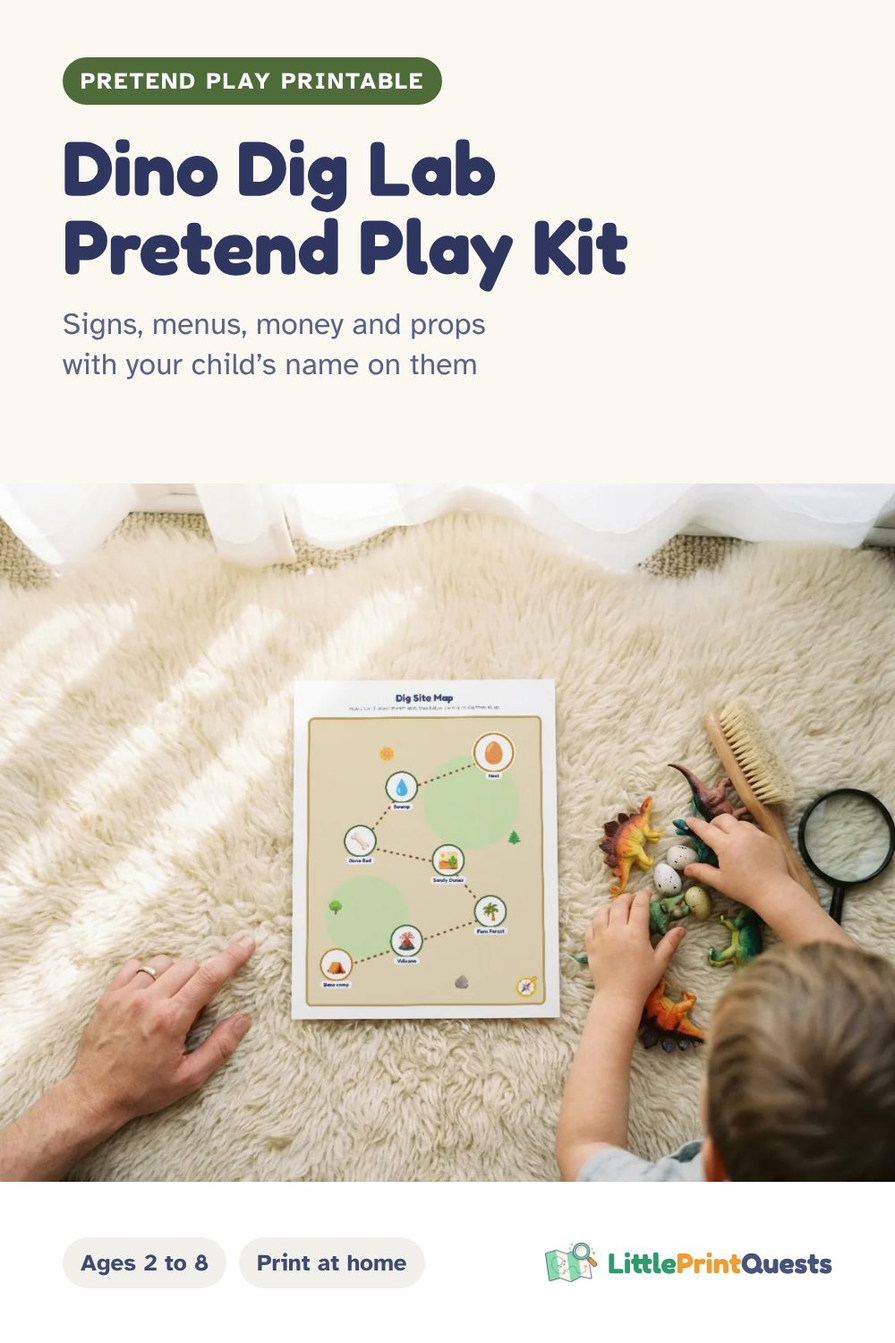
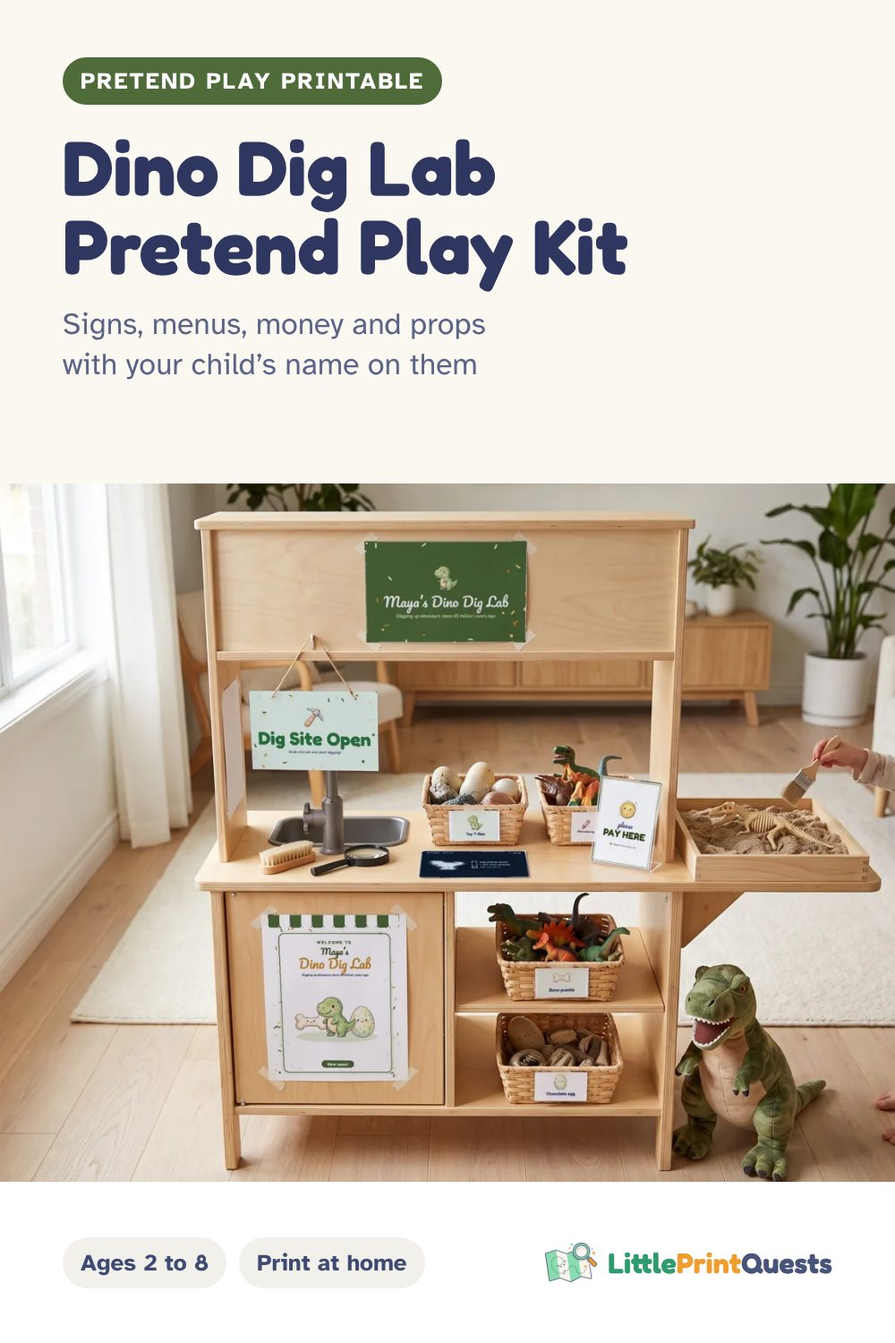
Mix in the play-stand and flat-lay photos across the site
Ten new photos showing the whole kit at once: a play stand set up with the shop
sign, Open sign, price list, poster and labels, and a flat lay of everything
that prints. Mixed with the best of the first set:

- Homepage: the At home strip mixes stands, a flat lay and two play shots, and
  the play kits section gets the pizza stand and flat lay above the kit list
- Kit idea pages: the stand leads, a play shot sits with the games and the
  flat lay sits with the printable
- Kit pins now lead with the play stand
- Drops the five first-round photos nothing uses any more

Claude-Session: https://claude.ai/code/session_01VuGCeLm3Bmq6rjNdytuGkh

diff --git a/docs/index.html b/docs/index.html
@@ -124,7 +124,10 @@ main { position: relative; }
 .life span { display: flex; justify-content: space-between; gap: 10px; padding: 12px 16px; font: 600 17px/1.2 var(--display); }
 .life small { font: 400 14px/1.2 var(--body); color: var(--ink-soft); align-self: center; }
 .life a:hover small, .life a:focus-visible small { color: var(--orange-edge); }
-@media (max-width: 760px) { .life { grid-auto-flow: column; grid-template-columns: none; grid-auto-columns: 78%; overflow-x: auto; scroll-snap-type: x mandatory; padding-bottom: 6px; } .life a { scroll-snap-align: start; } }
+.life-2 { grid-template-columns: repeat(2, 1fr); margin-bottom: 26px; }
+.life figure { margin: 0; background: var(--sheet); border: 1px solid var(--line); border-radius: var(--r); overflow: hidden; }
+.life figcaption { padding: 12px 16px; font: 600 17px/1.2 var(--display); }
+@media (max-width: 760px) { .life { grid-auto-flow: column; grid-template-columns: none; grid-auto-columns: 78%; overflow-x: auto; scroll-snap-type: x mandatory; padding-bottom: 6px; } .life a, .life figure { scroll-snap-align: start; } }
 .step { background: var(--sheet); border: 1px solid var(--line); border-radius: var(--r); padding: 24px; display: grid; gap: 10px; align-content: start; }
 .step .n { font: 700 15px/1 var(--mono); color: var(--ink-soft); }
 .step p { color: var(--ink-soft); }
@@ -464,12 +467,12 @@ footer .brand b { display: block; font: 600 19px/1.2 var(--display); }
       <h2>Print it, tape it up, start playing</h2>
       <p class="kits-lede">Every kit prints on plain Letter paper with your child’s name on the signs, menus and forms. Tape the poster to a door, set the menu on the table and the living room is open for business.</p>
       <div class="life">
+        <a href="?theme=vet#order"><img src="img/life/vet-stand-sm.webp" srcset="img/life/vet-stand-sm.webp 640w, img/life/vet-stand.webp 1200w" sizes="(max-width: 760px) 78vw, 400px" width="640" height="478" alt="The printed Vet Clinic kit on a play stand: clinic sign, Open sign, treatment prices, welcome poster and basket labels" loading="lazy"><span>Vet Clinic<small>Make this kit</small></span></a>
+        <a href="?theme=dino#order"><img src="img/life/dino-flat-sm.webp" srcset="img/life/dino-flat-sm.webp 640w, img/life/dino-flat.webp 1200w" sizes="(max-width: 760px) 78vw, 400px" width="640" height="478" alt="Everything in the Dino Dig Lab kit printed out: poster, gift shop menu, shop sign, fossil scans, play money and badges" loading="lazy"><span>Dino Dig Lab<small>Make this kit</small></span></a>
+        <a href="?theme=halloween#order"><img src="img/life/halloween-stand-sm.webp" srcset="img/life/halloween-stand-sm.webp 640w, img/life/halloween-stand.webp 1200w" sizes="(max-width: 760px) 78vw, 400px" width="640" height="478" alt="The printed Potion Shop kit on a play stand with a cauldron, potion jars and basket labels" loading="lazy"><span>Potion Shop<small>Make this kit</small></span></a>
         <a href="?kit=pizza#order"><img src="img/life/pizza-b-sm.webp" srcset="img/life/pizza-b-sm.webp 640w, img/life/pizza-b.webp 1200w" sizes="(max-width: 760px) 78vw, 400px" width="640" height="478" alt="The Pizza Shop menu on a kitchen table next to a felt pizza" loading="lazy"><span>Pizza Shop<small>Make this kit</small></span></a>
+        <a href="?theme=unicorn#order"><img src="img/life/unicorn-stand-sm.webp" srcset="img/life/unicorn-stand-sm.webp 640w, img/life/unicorn-stand.webp 1200w" sizes="(max-width: 760px) 78vw, 400px" width="640" height="478" alt="The printed Unicorn Stable kit on a play stand with a plush unicorn, treat baskets and signs" loading="lazy"><span>Unicorn Stable<small>Make this kit</small></span></a>
         <a href="?theme=vet#order"><img src="img/life/vet-b-sm.webp" srcset="img/life/vet-b-sm.webp 640w, img/life/vet-b.webp 1200w" sizes="(max-width: 760px) 78vw, 400px" width="640" height="478" alt="A Pet Check-Up form beside a teddy bear getting a check-up" loading="lazy"><span>Vet Clinic<small>Make this kit</small></span></a>
-        <a href="?theme=dino#order"><img src="img/life/dino-a-sm.webp" srcset="img/life/dino-a-sm.webp 640w, img/life/dino-a.webp 1200w" sizes="(max-width: 760px) 78vw, 400px" width="640" height="478" alt="The Dig Site Map on a rug with toy dinosaurs and a magnifying glass" loading="lazy"><span>Dino Dig Lab<small>Make this kit</small></span></a>
-        <a href="?theme=unicorn#order"><img src="img/life/unicorn-a-sm.webp" srcset="img/life/unicorn-a-sm.webp 640w, img/life/unicorn-a.webp 1200w" sizes="(max-width: 760px) 78vw, 400px" width="640" height="478" alt="The Treat Barn menu on a play table while a child brushes a plush unicorn" loading="lazy"><span>Unicorn Stable<small>Make this kit</small></span></a>
-        <a href="?theme=halloween#order"><img src="img/life/halloween-a-sm.webp" srcset="img/life/halloween-a-sm.webp 640w, img/life/halloween-a.webp 1200w" sizes="(max-width: 760px) 78vw, 400px" width="640" height="478" alt="The Potion Shop welcome poster taped above a table of pumpkins and potion jars" loading="lazy"><span>Potion Shop<small>Make this kit</small></span></a>
-        <a href="?theme=vet#order"><img src="img/life/vet-a-sm.webp" srcset="img/life/vet-a-sm.webp 640w, img/life/vet-a.webp 1200w" sizes="(max-width: 760px) 78vw, 400px" width="640" height="478" alt="The Pet Clinic welcome poster taped to a bedroom door above plush pets" loading="lazy"><span>Vet Clinic<small>Make this kit</small></span></a>
       </div>
     </div>
   </section>
@@ -593,6 +596,10 @@ footer .brand b { display: block; font: 600 19px/1.2 var(--display); }
       <div class="pin"><b></b><span class="eyebrow">Shop play kits</span></div>
       <h2>Eleven pretend places to set up at home</h2>
       <p class="kits-lede">Print, cut and tape them up around a play kitchen, a shelf or a corner of the room. Every kit is made with your child’s name: a long shop sign, station and counter signs, shelf labels, a cash register, play money, order forms and a menu to run it all. $7.99 each, with play ideas in Host Mode. Every kit comes in two versions: big kids (5 to 8), and little kids (2 to 4) with thicker cut lines, bigger pictures and order forms they fill in by circling pictures.</p>
+      <div class="life life-2">
+        <figure><img src="img/life/pizza-stand-sm.webp" srcset="img/life/pizza-stand-sm.webp 640w, img/life/pizza-stand.webp 1200w" sizes="(max-width: 760px) 78vw, 600px" width="640" height="478" alt="The printed Pizza Shop kit on a play stand: long shop sign, Open sign, menu, oven poster, Pay Here sign and topping labels" loading="lazy"><figcaption>Set up on a play stand</figcaption></figure>
+        <figure><img src="img/life/pizza-flat-sm.webp" srcset="img/life/pizza-flat-sm.webp 640w, img/life/pizza-flat.webp 1200w" sizes="(max-width: 760px) 78vw, 600px" width="640" height="478" alt="Everything in the Pizza Shop kit printed out: welcome poster, menu, shop sign, order cards, play money and staff badges" loading="lazy"><figcaption>Everything that prints</figcaption></figure>
+      </div>
       <div class="themes" id="shopList"></div>
       <form class="shop-buy" id="shopForm" novalidate>
         <div>

diff --git a/docs/ideas/potion-shop-pretend-play/index.html b/docs/ideas/potion-shop-pretend-play/index.html
@@ -62,13 +62,13 @@ footer { margin-top:56px; padding:28px 0 40px; border-top:1px solid var(--line);
 <h1>Potion Shop pretend play for kids</h1>
 <p class="lede">Everything your child needs to run a pretend potion shop. Print on regular Letter paper, cut along the dashed lines, and gather some stuffed animals to be customers. Here’s how to set it up, games to play and a printable kit with your child’s name on every page.</p>
 <a class="btn" href="../../?theme=halloween#order">Make a personalized Potion Shop kit</a>
-<img class="photo" src="../../img/life/halloween-b.webp" srcset="../../img/life/halloween-b-sm.webp 640w, ../../img/life/halloween-b.webp 1200w" sizes="(max-width: 760px) 100vw, 720px" width="1200" height="896" alt="The printed Potion Shop kit set up for play at home">
+<img class="photo" src="../../img/life/halloween-stand.webp" srcset="../../img/life/halloween-stand-sm.webp 640w, ../../img/life/halloween-stand.webp 1200w" sizes="(max-width: 760px) 100vw, 720px" width="1200" height="896" alt="The printed Potion Shop kit set up on a play stand: shop sign, open sign, price list, poster and labels">
 <h2>How to set it up</h2>
 <ol class="tips"><li>Tape the Potion Shop sign and Open sign by the door.</li><li>Use a big pot or bowl as the cauldron, with a wooden spoon.</li><li>Put the potion cauldron together: glue the back behind the doors.</li><li>Fill a shelf with “ingredients”: the cards, cups, cotton balls and colored water.</li><li>Pin on the badges and open the shop!</li></ol>
-<img class="photo" src="../../img/life/halloween-a.webp" srcset="../../img/life/halloween-a-sm.webp 640w, ../../img/life/halloween-a.webp 1200w" sizes="(max-width: 760px) 100vw, 720px" width="1200" height="896" alt="The printed Potion Shop kit set up for play at home" loading="lazy">
 
 <h2>Games to play</h2>
 <ul class="clues"><li class="clue"><h3>🧪 Mix a potion</h3><p>Pick three ingredient cards, stir them in, and fill out a recipe card.</p></li><li class="clue"><h3>🔮 Potion check-up</h3><p>Give a customer the potion, then tick what happens. Giggles? Sparkles?</p></li><li class="clue"><h3>🐸 Oops, hiccups!</h3><p>The frog has the hiccups! Mix a giggle potion fast to fix them.</p></li><li class="clue"><h3>🎃 Pay at the counter</h3><p>Customers pay with pumpkin coins. Great for early counting.</p></li></ul>
+<img class="photo" src="../../img/life/halloween-b.webp" srcset="../../img/life/halloween-b-sm.webp 640w, ../../img/life/halloween-b.webp 1200w" sizes="(max-width: 760px) 100vw, 720px" width="1200" height="896" alt="Playing potion shop at home with the printed kit" loading="lazy">
 
 <h2>Who’s who</h2>
 <p>Hand out the jobs so everyone gets a turn, grown-ups and stuffed animals included:</p>
@@ -79,6 +79,7 @@ footer { margin-top:56px; padding:28px 0 40px; border-top:1px solid var(--line);
 
 <h2>Want it printed and personalized?</h2>
 <p>The printable Potion Shop kit has your child’s name on the signs, badges and certificate, plus play money, order forms, props and a grown-up guide full of ideas. Pick the little kids version (ages 2 to 4) or the big kids version (5 to 8), and add the activity pack of wipe-and-play pages if you like. It arrives by email in minutes.</p>
+<img class="photo" src="../../img/life/halloween-flat.webp" srcset="../../img/life/halloween-flat-sm.webp 640w, ../../img/life/halloween-flat.webp 1200w" sizes="(max-width: 760px) 100vw, 720px" width="1200" height="896" alt="Everything in the Potion Shop kit printed out: poster, price list, shop sign, cards, play money and badges" loading="lazy">
 <div class="pages"><img src="../../img/pages/halloween-kit.webp" alt="Potion Shop printable page" width="400" height="518" loading="lazy"><img src="../../img/pages/halloween-little-kit.webp" alt="Potion Shop printable page" width="400" height="518" loading="lazy"><img src="../../img/pages/halloween-activity.webp" alt="Potion Shop printable page" width="400" height="518" loading="lazy"><img src="../../img/pages/halloween-little-activity.webp" alt="Potion Shop printable page" width="400" height="518" loading="lazy"></div>
 <p><a class="btn" href="../../?theme=halloween#order">Build my Potion Shop kit</a></p>
 

diff --git a/docs/ideas/unicorn-stable-pretend-play/index.html b/docs/ideas/unicorn-stable-pretend-play/index.html
@@ -62,13 +62,13 @@ footer { margin-top:56px; padding:28px 0 40px; border-top:1px solid var(--line);
 <h1>Unicorn Stable pretend play for kids</h1>
 <p class="lede">Everything your child needs to run a pretend unicorn stable. Print on regular Letter paper, cut along the dashed lines, and gather some toy unicorns and ponies. Here’s how to set it up, games to play and a printable kit with your child’s name on every page.</p>
 <a class="btn" href="../../?theme=unicorn#order">Make a personalized Unicorn Stable kit</a>
-<img class="photo" src="../../img/life/unicorn-a.webp" srcset="../../img/life/unicorn-a-sm.webp 640w, ../../img/life/unicorn-a.webp 1200w" sizes="(max-width: 760px) 100vw, 720px" width="1200" height="896" alt="The printed Unicorn Stable kit set up for play at home">
+<img class="photo" src="../../img/life/unicorn-stand.webp" srcset="../../img/life/unicorn-stand-sm.webp 640w, ../../img/life/unicorn-stand.webp 1200w" sizes="(max-width: 760px) 100vw, 720px" width="1200" height="896" alt="The printed Unicorn Stable kit set up on a play stand: shop sign, open sign, price list, poster and labels">
 <h2>How to set it up</h2>
 <ol class="tips"><li>Tape the Unicorn Stable sign and Stable Open sign by the door.</li><li>Make a cozy stall for each unicorn from a box or pillow.</li><li>Put the Rainbow Maker together with a paper fastener.</li><li>Set out the Treat Barn with play food or real snacks.</li><li>Pin on the badges and open the stable!</li></ol>
-<img class="photo" src="../../img/life/unicorn-b.webp" srcset="../../img/life/unicorn-b-sm.webp 640w, ../../img/life/unicorn-b.webp 1200w" sizes="(max-width: 760px) 100vw, 720px" width="1200" height="896" alt="The printed Unicorn Stable kit set up for play at home" loading="lazy">
 
 <h2>Games to play</h2>
 <ul class="clues"><li class="clue"><h3>✨ Sparkle check-up</h3><p>Scan each unicorn with the sparkle finder, then fill in a check-up form.</p></li><li class="clue"><h3>🌈 Rainbow ride</h3><p>Ride the ponies along the trail map and stamp a passport at each stop.</p></li><li class="clue"><h3>🏆 Pony show</h3><p>Unicorns prance and twirl, then the judge hands out rainbow rosettes.</p></li><li class="clue"><h3>🥕 Treat barn</h3><p>Riders pay with rainbow gems. Great for early counting.</p></li></ul>
+<img class="photo" src="../../img/life/unicorn-a.webp" srcset="../../img/life/unicorn-a-sm.webp 640w, ../../img/life/unicorn-a.webp 1200w" sizes="(max-width: 760px) 100vw, 720px" width="1200" height="896" alt="Playing unicorn stable at home with the printed kit" loading="lazy">
 
 <h2>Who’s who</h2>
 <p>Hand out the jobs so everyone gets a turn, grown-ups and stuffed animals included:</p>
@@ -79,6 +79,7 @@ footer { margin-top:56px; padding:28px 0 40px; border-top:1px solid var(--line);
 
 <h2>Want it printed and personalized?</h2>
 <p>The printable Unicorn Stable kit has your child’s name on the signs, badges and certificate, plus play money, order forms, props and a grown-up guide full of ideas. Pick the little kids version (ages 2 to 4) or the big kids version (5 to 8), and add the activity pack of wipe-and-play pages if you like. It arrives by email in minutes.</p>
+<img class="photo" src="../../img/life/unicorn-flat.webp" srcset="../../img/life/unicorn-flat-sm.webp 640w, ../../img/life/unicorn-flat.webp 1200w" sizes="(max-width: 760px) 100vw, 720px" width="1200" height="896" alt="Everything in the Unicorn Stable kit printed out: poster, price list, shop sign, cards, play money and badges" loading="lazy">
 <div class="pages"><img src="../../img/pages/unicorn-kit.webp" alt="Unicorn Stable printable page" width="400" height="518" loading="lazy"><img src="../../img/pages/unicorn-little-kit.webp" alt="Unicorn Stable printable page" width="400" height="518" loading="lazy"><img src="../../img/pages/unicorn-activity.webp" alt="Unicorn Stable printable page" width="400" height="518" loading="lazy"><img src="../../img/pages/unicorn-little-activity.webp" alt="Unicorn Stable printable page" width="400" height="518" loading="lazy"></div>
 <p><a class="btn" href="../../?theme=unicorn#order">Build my Unicorn Stable kit</a></p>
 

diff --git a/docs/ideas/dino-dig-lab-pretend-play/index.html b/docs/ideas/dino-dig-lab-pretend-play/index.html
@@ -62,13 +62,13 @@ footer { margin-top:56px; padding:28px 0 40px; border-top:1px solid var(--line);
 <h1>Dino Dig Lab pretend play for kids</h1>
 <p class="lede">Everything your child needs to run a pretend dinosaur dig. Print on regular Letter paper, cut along the dashed lines, and gather some toy dinosaurs to discover. Here’s how to set it up, games to play and a printable kit with your child’s name on every page.</p>
 <a class="btn" href="../../?theme=dino#order">Make a personalized Dino Dig Lab kit</a>
-<img class="photo" src="../../img/life/dino-a.webp" srcset="../../img/life/dino-a-sm.webp 640w, ../../img/life/dino-a.webp 1200w" sizes="(max-width: 760px) 100vw, 720px" width="1200" height="896" alt="The printed Dino Dig Lab kit set up for play at home">
+<img class="photo" src="../../img/life/dino-stand.webp" srcset="../../img/life/dino-stand-sm.webp 640w, ../../img/life/dino-stand.webp 1200w" sizes="(max-width: 760px) 100vw, 720px" width="1200" height="896" alt="The printed Dino Dig Lab kit set up on a play stand: shop sign, open sign, price list, poster and labels">
 <h2>How to set it up</h2>
 <ol class="tips"><li>Tape the Dig Lab sign and Dig Site Open sign by the door.</li><li>Hide toy dinosaurs in a sandbox, a bin of rice, or under pillows.</li><li>Set up the Fossil Lab on a table with brushes and a magnifier.</li><li>Put the Hatchery sign on a basket of “eggs” (balled-up socks work great).</li><li>Pin on the badges and start digging!</li></ol>
-<img class="photo" src="../../img/life/dino-b.webp" srcset="../../img/life/dino-b-sm.webp 640w, ../../img/life/dino-b.webp 1200w" sizes="(max-width: 760px) 100vw, 720px" width="1200" height="896" alt="The printed Dino Dig Lab kit set up for play at home" loading="lazy">
 
 <h2>Games to play</h2>
 <ul class="clues"><li class="clue"><h3>⛏ The big dig</h3><p>Hide the fossil finds around the room, follow the dig site map, then match each dino to its fossil scan.</p></li><li class="clue"><h3>🏛 Museum day</h3><p>Line up your finds, sell tickets, and give a guided tour.</p></li><li class="clue"><h3>🌋 Volcano alert!</h3><p>The volcano rumbles! Rescue the eggs and carry them to the Hatchery.</p></li><li class="clue"><h3>🦴 Gift shop</h3><p>Visitors pay with fossil coins. Great for early counting.</p></li></ul>
+<img class="photo" src="../../img/life/dino-a.webp" srcset="../../img/life/dino-a-sm.webp 640w, ../../img/life/dino-a.webp 1200w" sizes="(max-width: 760px) 100vw, 720px" width="1200" height="896" alt="Playing dino dig lab at home with the printed kit" loading="lazy">
 
 <h2>Who’s who</h2>
 <p>Hand out the jobs so everyone gets a turn, grown-ups and stuffed animals included:</p>
@@ -79,6 +79,7 @@ footer { margin-top:56px; padding:28px 0 40px; border-top:1px solid var(--line);
 
 <h2>Want it printed and personalized?</h2>
 <p>The printable Dino Dig Lab kit has your child’s name on the signs, badges and certificate, plus play money, order forms, props and a grown-up guide full of ideas. Pick the little kids version (ages 2 to 4) or the big kids version (5 to 8), and add the activity pack of wipe-and-play pages if you like. It arrives by email in minutes.</p>
+<img class="photo" src="../../img/life/dino-flat.webp" srcset="../../img/life/dino-flat-sm.webp 640w, ../../img/life/dino-flat.webp 1200w" sizes="(max-width: 760px) 100vw, 720px" width="1200" height="896" alt="Everything in the Dino Dig Lab kit printed out: poster, price list, shop sign, cards, play money and badges" loading="lazy">
 <div class="pages"><img src="../../img/pages/dino-kit.webp" alt="Dino Dig Lab printable page" width="400" height="518" loading="lazy"><img src="../../img/pages/dino-little-kit.webp" alt="Dino Dig Lab printable page" width="400" height="518" loading="lazy"><img src="../../img/pages/dino-activity.webp" alt="Dino Dig Lab printable page" width="400" height="518" loading="lazy"><img src="../../img/pages/dino-little-activity.webp" alt="Dino Dig Lab printable page" width="400" height="518" loading="lazy"></div>
 <p><a class="btn" href="../../?theme=dino#order">Build my Dino Dig Lab kit</a></p>
 

diff --git a/docs/ideas/pizza-shop-pretend-play/index.html b/docs/ideas/pizza-shop-pretend-play/index.html
@@ -62,13 +62,13 @@ footer { margin-top:56px; padding:28px 0 40px; border-top:1px solid var(--line);
 <h1>Pizza Shop pretend play for kids</h1>
 <p class="lede">Everything your child needs to run a pretend pizzeria. Print on regular Letter paper, cut along the dashed lines, and line up some stuffed animals to be hungry customers. Here’s how to set it up, games to play and a printable kit with your child’s name on every page.</p>
 <a class="btn" href="../../?kit=pizza#order">Make a personalized Pizza Shop kit</a>
-<img class="photo" src="../../img/life/pizza-b.webp" srcset="../../img/life/pizza-b-sm.webp 640w, ../../img/life/pizza-b.webp 1200w" sizes="(max-width: 760px) 100vw, 720px" width="1200" height="896" alt="The printed Pizza Shop kit set up for play at home">
+<img class="photo" src="../../img/life/pizza-stand.webp" srcset="../../img/life/pizza-stand-sm.webp 640w, ../../img/life/pizza-stand.webp 1200w" sizes="(max-width: 760px) 100vw, 720px" width="1200" height="896" alt="The printed Pizza Shop kit set up on a play stand: shop sign, open sign, price list, poster and labels">
 <h2>How to set it up</h2>
 <ol class="tips"><li>Tape the pizzeria sign and Open sign by the “front door”.</li><li>Set up the register on the counter.</li><li>Lay out the toppings in small bowls or cups with their labels.</li><li>Use a baking tray or a shoebox as the pizza oven.</li><li>Pin on the badges and take the first order!</li></ol>
-<img class="photo" src="../../img/life/pizza-a.webp" srcset="../../img/life/pizza-a-sm.webp 640w, ../../img/life/pizza-a.webp 1200w" sizes="(max-width: 760px) 100vw, 720px" width="1200" height="896" alt="The printed Pizza Shop kit set up for play at home" loading="lazy">
 
 <h2>Games to play</h2>
 <ul class="clues"><li class="clue"><h3>🍕 Make it match</h3><p>A customer picks an order card. The chef builds that pizza with the cut-out toppings.</p></li><li class="clue"><h3>🛵 Delivery!</h3><p>Fill in a delivery ticket and drive the pizza to a customer in another room.</p></li><li class="clue"><h3>🪙 Pay at the register</h3><p>Add up the menu prices and pay with pizza coins. Great for early counting.</p></li><li class="clue"><h3>⭐ Pizza Club</h3><p>Stamp a club card after every pizza. A full card earns a free slice!</p></li></ul>
+<img class="photo" src="../../img/life/pizza-b.webp" srcset="../../img/life/pizza-b-sm.webp 640w, ../../img/life/pizza-b.webp 1200w" sizes="(max-width: 760px) 100vw, 720px" width="1200" height="896" alt="Playing pizza shop at home with the printed kit" loading="lazy">
 
 <h2>Who’s who</h2>
 <p>Hand out the jobs so everyone gets a turn, grown-ups and stuffed animals included:</p>
@@ -79,6 +79,7 @@ footer { margin-top:56px; padding:28px 0 40px; border-top:1px solid var(--line);
 
 <h2>Want it printed and personalized?</h2>
 <p>The printable Pizza Shop kit has your child’s name on the signs, badges and certificate, plus play money, order forms, props and a grown-up guide full of ideas. Pick the little kids version (ages 2 to 4) or the big kids version (5 to 8), and add the activity pack of wipe-and-play pages if you like. It arrives by email in minutes.</p>
+<img class="photo" src="../../img/life/pizza-flat.webp" srcset="../../img/life/pizza-flat-sm.webp 640w, ../../img/life/pizza-flat.webp 1200w" sizes="(max-width: 760px) 100vw, 720px" width="1200" height="896" alt="Everything in the Pizza Shop kit printed out: poster, price list, shop sign, cards, play money and badges" loading="lazy">
 <div class="pages"><img src="../../img/pages/pizza-kit.webp" alt="Pizza Shop printable page" width="400" height="518" loading="lazy"><img src="../../img/pages/pizza-little-kit.webp" alt="Pizza Shop printable page" width="400" height="518" loading="lazy"><img src="../../img/pages/pizza-activity.webp" alt="Pizza Shop printable page" width="400" height="518" loading="lazy"><img src="../../img/pages/pizza-little-activity.webp" alt="Pizza Shop printable page" width="400" height="518" loading="lazy"></div>
 <p><a class="btn" href="../../?kit=pizza#order">Build my Pizza Shop kit</a></p>
 

diff --git a/docs/ideas/vet-clinic-pretend-play/index.html b/docs/ideas/vet-clinic-pretend-play/index.html
@@ -62,13 +62,13 @@ footer { margin-top:56px; padding:28px 0 40px; border-top:1px solid var(--line);
 <h1>Vet Clinic pretend play for kids</h1>
 <p class="lede">Everything your child needs to run a pretend vet clinic. Print on regular Letter paper, cut along the dashed lines, and gather some stuffed animals to be patients. Here’s how to set it up, games to play and a printable kit with your child’s name on every page.</p>
 <a class="btn" href="../../?theme=vet#order">Make a personalized Vet Clinic kit</a>
-<img class="photo" src="../../img/life/vet-b.webp" srcset="../../img/life/vet-b-sm.webp 640w, ../../img/life/vet-b.webp 1200w" sizes="(max-width: 760px) 100vw, 720px" width="1200" height="896" alt="The printed Vet Clinic kit set up for play at home">
+<img class="photo" src="../../img/life/vet-stand.webp" srcset="../../img/life/vet-stand-sm.webp 640w, ../../img/life/vet-stand.webp 1200w" sizes="(max-width: 760px) 100vw, 720px" width="1200" height="896" alt="The printed Vet Clinic kit set up on a play stand: shop sign, open sign, price list, poster and labels">
 <h2>How to set it up</h2>
 <ol class="tips"><li>Tape the clinic sign and Open sign by the “front door”.</li><li>Line up chairs for the Waiting Room.</li><li>Make an Exam Room on a table or bed with a towel.</li><li>Fill a box with “medicine”: tissues for bandages, empty bottles, cotton balls.</li><li>Pin on the badges and open the clinic!</li></ol>
-<img class="photo" src="../../img/life/vet-a.webp" srcset="../../img/life/vet-a-sm.webp 640w, ../../img/life/vet-a.webp 1200w" sizes="(max-width: 760px) 100vw, 720px" width="1200" height="896" alt="The printed Vet Clinic kit set up for play at home" loading="lazy">
 
 <h2>Games to play</h2>
 <ul class="clues"><li class="clue"><h3>🩺 Full check-up</h3><p>Go down the check-up form: eyes, ears, teeth, paws. Tick each box.</p></li><li class="clue"><h3>🦴 X-ray time</h3><p>Hold an X-ray up to the window and find out what’s wrong. Then treat it with the clinic supplies.</p></li><li class="clue"><h3>🚑 Emergency!</h3><p>A patient has a sore paw. Bandage it fast and write a prescription.</p></li><li class="clue"><h3>🪙 Pay at the desk</h3><p>Owners pay with paw coins. Great for early counting.</p></li></ul>
+<img class="photo" src="../../img/life/vet-b.webp" srcset="../../img/life/vet-b-sm.webp 640w, ../../img/life/vet-b.webp 1200w" sizes="(max-width: 760px) 100vw, 720px" width="1200" height="896" alt="Playing vet clinic at home with the printed kit" loading="lazy">
 
 <h2>Who’s who</h2>
 <p>Hand out the jobs so everyone gets a turn, grown-ups and stuffed animals included:</p>
@@ -79,6 +79,7 @@ footer { margin-top:56px; padding:28px 0 40px; border-top:1px solid var(--line);
 
 <h2>Want it printed and personalized?</h2>
 <p>The printable Vet Clinic kit has your child’s name on the signs, badges and certificate, plus play money, order forms, props and a grown-up guide full of ideas. Pick the little kids version (ages 2 to 4) or the big kids version (5 to 8), and add the activity pack of wipe-and-play pages if you like. It arrives by email in minutes.</p>
+<img class="photo" src="../../img/life/vet-flat.webp" srcset="../../img/life/vet-flat-sm.webp 640w, ../../img/life/vet-flat.webp 1200w" sizes="(max-width: 760px) 100vw, 720px" width="1200" height="896" alt="Everything in the Vet Clinic kit printed out: poster, price list, shop sign, cards, play money and badges" loading="lazy">
 <div class="pages"><img src="../../img/pages/vet-kit.webp" alt="Vet Clinic printable page" width="400" height="518" loading="lazy"><img src="../../img/pages/vet-little-kit.webp" alt="Vet Clinic printable page" width="400" height="518" loading="lazy"><img src="../../img/pages/vet-activity.webp" alt="Vet Clinic printable page" width="400" height="518" loading="lazy"><img src="../../img/pages/vet-little-activity.webp" alt="Vet Clinic printable page" width="400" height="518" loading="lazy"></div>
 <p><a class="btn" href="../../?theme=vet#order">Build my Vet Clinic kit</a></p>
 

diff --git a/scripts/idea-pages.js b/scripts/idea-pages.js
@@ -21,12 +21,10 @@ const spaceSlug = (s) => slug(s.title);
 const kitSlug = (k) => `${slug(k.name)}-pretend-play`;
 const builder = (q) => `../../?${new URLSearchParams(q)}#order`;
 const lines = (couplet) => couplet.map(esc).join('<br>');
-// Kits with photos of the printed kit in a room (docs/img/life/<kit>-<a|b>.webp): the first shot leads the page, the second sits with the setup steps.
-const LIFE = { pizza: ['b', 'a'], vet: ['b', 'a'], dino: ['a', 'b'], unicorn: ['a', 'b'], halloween: ['b', 'a'] };
-const lifePhoto = (k, i) => {
-  const v = LIFE[k.id]?.[i];
-  return v ? `<img class="photo" src="../../img/life/${k.id}-${v}.webp" srcset="../../img/life/${k.id}-${v}-sm.webp 640w, ../../img/life/${k.id}-${v}.webp 1200w" sizes="(max-width: 760px) 100vw, 720px" width="1200" height="896" alt="The printed ${esc(k.name)} kit set up for play at home"${i ? ' loading="lazy"' : ''}>` : '';
-};
+// Kits with photos of the printed kit at home (docs/img/life/): the play stand leads the page, the flat lay of
+// everything in the kit sits with the printable, and a play shot sits with the games.
+const LIFE = { pizza: 'b', vet: 'b', dino: 'a', unicorn: 'a', halloween: 'b' };
+const lifePhoto = (k, v, alt, lazy = true) => (LIFE[k.id] ? `<img class="photo" src="../../img/life/${k.id}-${v}.webp" srcset="../../img/life/${k.id}-${v}-sm.webp 640w, ../../img/life/${k.id}-${v}.webp 1200w" sizes="(max-width: 760px) 100vw, 720px" width="1200" height="896" alt="${esc(alt)}"${lazy ? ' loading="lazy"' : ''}>` : '');
 
 const CSS = `
 :root { --paper:#fbf8f1; --sheet:#fff; --ink:#3f4a73; --soft:#646d8f; --line:#e4dfd2; --orange:#ef9d31; --orange-ink:#2b1d06; --mint:#2f9a6b; --tint:#f2f8f2;
@@ -223,13 +221,13 @@ function kitPage(k, kits) {
 <h1>${esc(k.name)} pretend play for kids</h1>
 <p class="lede">${esc(fill(g.intro))} Here’s how to set it up, games to play and a printable kit with your child’s name on every page.</p>
 <a class="btn" href="${builder(q)}">Make a personalized ${esc(k.name)} kit</a>
-${lifePhoto(k, 0)}
+${lifePhoto(k, 'stand', `The printed ${k.name} kit set up on a play stand: shop sign, open sign, price list, poster and labels`, false)}
 <h2>How to set it up</h2>
 <ol class="tips">${g.setup.map((x) => `<li>${esc(fill(x))}</li>`).join('')}</ol>
-${lifePhoto(k, 1)}
 
 <h2>Games to play</h2>
 <ul class="clues">${g.play.map(([t, d]) => `<li class="clue"><h3>${esc(t)}</h3><p>${esc(fill(d))}</p></li>`).join('')}</ul>
+${lifePhoto(k, LIFE[k.id], `Playing ${name} at home with the printed kit`)}
 
 <h2>Who’s who</h2>
 <p>Hand out the jobs so everyone gets a turn, grown-ups and stuffed animals included:</p>
@@ -240,6 +238,7 @@ ${lifePhoto(k, 1)}
 
 <h2>Want it printed and personalized?</h2>
 <p>The printable ${esc(k.name)} kit has your child’s name on the signs, badges and certificate, plus play money, order forms, props and a grown-up guide full of ideas. Pick the little kids version (ages 2 to 4) or the big kids version (5 to 8), and add the activity pack of wipe-and-play pages if you like. It arrives by email in minutes.</p>
+${lifePhoto(k, 'flat', `Everything in the ${k.name} kit printed out: poster, price list, shop sign, cards, play money and badges`)}
 <div class="pages">${[`${k.hunt || k.id}-kit`, `${k.hunt || k.id}-little-kit`, `${k.hunt || k.id}-activity`, `${k.hunt || k.id}-little-activity`].filter((f) => fs.existsSync(path.join(DOCS, 'img', 'pages', `${f}.webp`))).map((f) => `<img src="../../img/pages/${f}.webp" alt="${esc(k.name)} printable page" width="400" height="518" loading="lazy">`).join('')}</div>
 <p><a class="btn" href="${builder(q)}">Build my ${esc(k.name)} kit</a></p>
 

diff --git a/docs/ideas/italian-restaurant-pretend-play/index.html b/docs/ideas/italian-restaurant-pretend-play/index.html
@@ -66,9 +66,9 @@ footer { margin-top:56px; padding:28px 0 40px; border-top:1px solid var(--line);
 <h2>How to set it up</h2>
 <ol class="tips"><li>Tape the restaurant sign and Open sign by the “front door”, with Please Wait to Be Seated just inside.</li><li>Set a table or two with plates, napkins and a Table Card on each.</li><li>Put the register by the Pay Here sign and a notebook under the Reservations sign.</li><li>Tape the oven and stove onto boxes for the kitchen, wrap the jar labels round some cups, and tape up How to Make Spaghetti.</li><li>Pin on the badges and seat the first guests!</li></ol>
 
-
 <h2>Games to play</h2>
 <ul class="clues"><li class="clue"><h3>🪑 Seat the guests</h3><p>The host greets each guest at the Please Wait to Be Seated sign and walks them to a table.</p></li><li class="clue"><h3>📝 Take the order</h3><p>The waiter reads out the Dinner Menu and fills in a Waiter’s Order Pad.</p></li><li class="clue"><h3>🍝 Cook and serve</h3><p>The chef cooks the spaghetti, then the waiter carries it to the right table.</p></li><li class="clue"><h3>🧾 Bring the bill</h3><p>Tick what the table ate, add it up and pay at the register. Grazie!</p></li></ul>
+
 
 <h2>Who’s who</h2>
 <p>Hand out the jobs so everyone gets a turn, grown-ups and stuffed animals included:</p>
@@ -79,6 +79,7 @@ footer { margin-top:56px; padding:28px 0 40px; border-top:1px solid var(--line);
 
 <h2>Want it printed and personalized?</h2>
 <p>The printable Italian Restaurant kit has your child’s name on the signs, badges and certificate, plus play money, order forms, props and a grown-up guide full of ideas. Pick the little kids version (ages 2 to 4) or the big kids version (5 to 8), and add the activity pack of wipe-and-play pages if you like. It arrives by email in minutes.</p>
+
 <div class="pages"><img src="../../img/pages/italian-kit.webp" alt="Italian Restaurant printable page" width="400" height="518" loading="lazy"><img src="../../img/pages/italian-little-kit.webp" alt="Italian Restaurant printable page" width="400" height="518" loading="lazy"><img src="../../img/pages/italian-activity.webp" alt="Italian Restaurant printable page" width="400" height="518" loading="lazy"><img src="../../img/pages/italian-little-activity.webp" alt="Italian Restaurant printable page" width="400" height="518" loading="lazy"></div>
 <p><a class="btn" href="../../?kit=italian#order">Build my Italian Restaurant kit</a></p>
 

diff --git a/docs/ideas/dentist-office-pretend-play/index.html b/docs/ideas/dentist-office-pretend-play/index.html
@@ -66,9 +66,9 @@ footer { margin-top:56px; padding:28px 0 40px; border-top:1px solid var(--line);
 <h2>How to set it up</h2>
 <ol class="tips"><li>Tape the dental office sign and Open sign by the “front door”.</li><li>Set a chair or a cushion in the Exam Room for the patients.</li><li>Slip Brush the Teeth into a sheet protector and keep a dry-erase marker and a tissue nearby.</li><li>Set up the register at the front desk with the appointment cards.</li><li>Pin on the badges and call the first patient!</li></ol>
 
-
 <h2>Games to play</h2>
 <ul class="clues"><li class="clue"><h3>🪥 Brush away the bugs</h3><p>Draw sugar bugs on the big smile with a dry-erase marker. The dentist brushes them all away!</p></li><li class="clue"><h3>📋 Check-up time</h3><p>Fill in a Tooth Chart for each patient: look, count, brush, floss and polish.</p></li><li class="clue"><h3>🍎 Snack sort</h3><p>Sort the snack cards into teeth-happy snacks and once-in-a-while treats.</p></li><li class="clue"><h3>😁 Smile Club</h3><p>Stamp a club card at every check-up. A full card earns a trip to the prize box!</p></li></ul>
+
 
 <h2>Who’s who</h2>
 <p>Hand out the jobs so everyone gets a turn, grown-ups and stuffed animals included:</p>
@@ -79,6 +79,7 @@ footer { margin-top:56px; padding:28px 0 40px; border-top:1px solid var(--line);
 
 <h2>Want it printed and personalized?</h2>
 <p>The printable Dentist Office kit has your child’s name on the signs, badges and certificate, plus play money, order forms, props and a grown-up guide full of ideas. Pick the little kids version (ages 2 to 4) or the big kids version (5 to 8), and add the activity pack of wipe-and-play pages if you like. It arrives by email in minutes.</p>
+
 <div class="pages"><img src="../../img/pages/dentist-kit.webp" alt="Dentist Office printable page" width="400" height="518" loading="lazy"><img src="../../img/pages/dentist-little-kit.webp" alt="Dentist Office printable page" width="400" height="518" loading="lazy"><img src="../../img/pages/dentist-activity.webp" alt="Dentist Office printable page" width="400" height="518" loading="lazy"><img src="../../img/pages/dentist-little-activity.webp" alt="Dentist Office printable page" width="400" height="518" loading="lazy"></div>
 <p><a class="btn" href="../../?kit=dentist#order">Build my Dentist Office kit</a></p>
 

diff --git a/docs/ideas/valentine-post-office-pretend-play/index.html b/docs/ideas/valentine-post-office-pretend-play/index.html
@@ -66,9 +66,9 @@ footer { margin-top:56px; padding:28px 0 40px; border-top:1px solid var(--line);
 <h2>How to set it up</h2>
 <ol class="tips"><li>Tape the Post Office sign and Open sign by the “front door”.</li><li>Turn a shoebox into the Mailbox: cut a slot in the lid.</li><li>Set up a Card Making Table with paper, crayons and stickers.</li><li>Seat the stuffed animal friends around the room as houses on the mail route.</li><li>Pin on the badges and open the post office!</li></ol>
 
-
 <h2>Games to play</h2>
 <ul class="clues"><li class="clue"><h3>💌 Write and stamp</h3><p>Make a valentine for a friend, fill in a Special Delivery slip, and stick on a heart stamp.</p></li><li class="clue"><h3>🗂 Sorting time</h3><p>Empty the Mailbox and sort the cards into piles, one for each friend.</p></li><li class="clue"><h3>🚚 Mail route</h3><p>Carry the valentines along the route map and deliver one at every stop.</p></li><li class="clue"><h3>💗 Post office shop</h3><p>Customers pay with heart coins. Great for early counting.</p></li></ul>
+
 
 <h2>Who’s who</h2>
 <p>Hand out the jobs so everyone gets a turn, grown-ups and stuffed animals included:</p>
@@ -79,6 +79,7 @@ footer { margin-top:56px; padding:28px 0 40px; border-top:1px solid var(--line);
 
 <h2>Want it printed and personalized?</h2>
 <p>The printable Valentine Post Office kit has your child’s name on the signs, badges and certificate, plus play money, order forms, props and a grown-up guide full of ideas. Pick the little kids version (ages 2 to 4) or the big kids version (5 to 8), and add the activity pack of wipe-and-play pages if you like. It arrives by email in minutes.</p>
+
 <div class="pages"><img src="../../img/pages/valentine-kit.webp" alt="Valentine Post Office printable page" width="400" height="518" loading="lazy"><img src="../../img/pages/valentine-little-kit.webp" alt="Valentine Post Office printable page" width="400" height="518" loading="lazy"><img src="../../img/pages/valentine-activity.webp" alt="Valentine Post Office printable page" width="400" height="518" loading="lazy"><img src="../../img/pages/valentine-little-activity.webp" alt="Valentine Post Office printable page" width="400" height="518" loading="lazy"></div>
 <p><a class="btn" href="../../?theme=valentine#order">Build my Valentine Post Office kit</a></p>
 

diff --git a/docs/ideas/auto-repair-shop-pretend-play/index.html b/docs/ideas/auto-repair-shop-pretend-play/index.html
@@ -66,9 +66,9 @@ footer { margin-top:56px; padding:28px 0 40px; border-top:1px solid var(--line);
 <h2>How to set it up</h2>
 <ol class="tips"><li>Tape the shop sign and Open sign by the “front door”.</li><li>Mark a parking spot with the Drive In Here sign and a car wash corner with the Car Wash sign.</li><li>Set up the register by the Please Pay Here sign, with chairs under the Waiting Room sign.</li><li>Fill boxes with play tools and parts and stand a Shelf Label by each one.</li><li>Pin on the badges and fix the first car!</li></ol>
 
-
 <h2>Games to play</h2>
 <ul class="clues"><li class="clue"><h3>📋 Check-up</h3><p>Drive a car in and check its tires, lights and brakes on a Car Check-Up form.</p></li><li class="clue"><h3>🔧 Fix it</h3><p>Fill in a Work Order, grab tools from the Toolbox and fix what’s broken.</p></li><li class="clue"><h3>🧽 Car wash</h3><p>Follow How to Wash a Car with a sponge and a towel. Add a Super shiny sticker!</p></li><li class="clue"><h3>🪙 Pay and go</h3><p>Add up the Price List and pay with garage coins. Hand back the keys!</p></li></ul>
+
 
 <h2>Who’s who</h2>
 <p>Hand out the jobs so everyone gets a turn, grown-ups and stuffed animals included:</p>
@@ -79,6 +79,7 @@ footer { margin-top:56px; padding:28px 0 40px; border-top:1px solid var(--line);
 
 <h2>Want it printed and personalized?</h2>
 <p>The printable Auto Repair Shop kit has your child’s name on the signs, badges and certificate, plus play money, order forms, props and a grown-up guide full of ideas. Pick the little kids version (ages 2 to 4) or the big kids version (5 to 8), and add the activity pack of wipe-and-play pages if you like. It arrives by email in minutes.</p>
+
 <div class="pages"><img src="../../img/pages/auto-kit.webp" alt="Auto Repair Shop printable page" width="400" height="518" loading="lazy"><img src="../../img/pages/auto-little-kit.webp" alt="Auto Repair Shop printable page" width="400" height="518" loading="lazy"><img src="../../img/pages/auto-activity.webp" alt="Auto Repair Shop printable page" width="400" height="518" loading="lazy"><img src="../../img/pages/auto-little-activity.webp" alt="Auto Repair Shop printable page" width="400" height="518" loading="lazy"></div>
 <p><a class="btn" href="../../?kit=auto#order">Build my Auto Repair Shop kit</a></p>
 

diff --git a/docs/ideas/post-office-pretend-play/index.html b/docs/ideas/post-office-pretend-play/index.html
@@ -66,9 +66,9 @@ footer { margin-top:56px; padding:28px 0 40px; border-top:1px solid var(--line);
 <h2>How to set it up</h2>
 <ol class="tips"><li>Tape the post office sign and Open sign by the “front door”.</li><li>Set up the till on the counter next to a kitchen scale or a pretend one.</li><li>Turn a shoebox into the Mail box: cut a slot in the lid and tape on the Mail sign.</li><li>Fill trays with envelopes, stamps, postcards and tape, each with its label.</li><li>Pin on the badges and serve the first customer!</li></ol>
 
-
 <h2>Games to play</h2>
 <ul class="clues"><li class="clue"><h3>✉ Write and post</h3><p>Write a letter or postcard, stick on a stamp and pop it in the Mail box.</p></li><li class="clue"><h3>📦 Pack a parcel</h3><p>Wrap a small toy, weigh it, fill in a Parcel Label and add the right stickers.</p></li><li class="clue"><h3>🗂 Sorting time</h3><p>Empty the Mail box and sort letters and parcels into piles, one for each customer.</p></li><li class="clue"><h3>🪙 Pay at the till</h3><p>Add up the postage prices and pay with post coins. Great for early counting.</p></li></ul>
+
 
 <h2>Who’s who</h2>
 <p>Hand out the jobs so everyone gets a turn, grown-ups and stuffed animals included:</p>
@@ -79,6 +79,7 @@ footer { margin-top:56px; padding:28px 0 40px; border-top:1px solid var(--line);
 
 <h2>Want it printed and personalized?</h2>
 <p>The printable Post Office kit has your child’s name on the signs, badges and certificate, plus play money, order forms, props and a grown-up guide full of ideas. Pick the little kids version (ages 2 to 4) or the big kids version (5 to 8), and add the activity pack of wipe-and-play pages if you like. It arrives by email in minutes.</p>
+
 <div class="pages"><img src="../../img/pages/post-kit.webp" alt="Post Office printable page" width="400" height="518" loading="lazy"><img src="../../img/pages/post-little-kit.webp" alt="Post Office printable page" width="400" height="518" loading="lazy"><img src="../../img/pages/post-activity.webp" alt="Post Office printable page" width="400" height="518" loading="lazy"><img src="../../img/pages/post-little-activity.webp" alt="Post Office printable page" width="400" height="518" loading="lazy"></div>
 <p><a class="btn" href="../../?kit=post#order">Build my Post Office kit</a></p>
 
